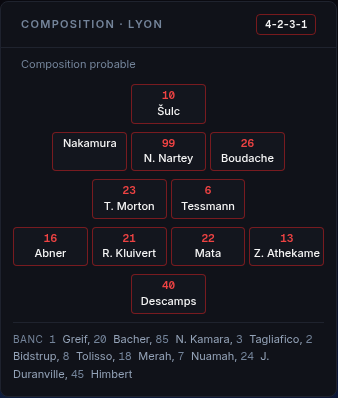
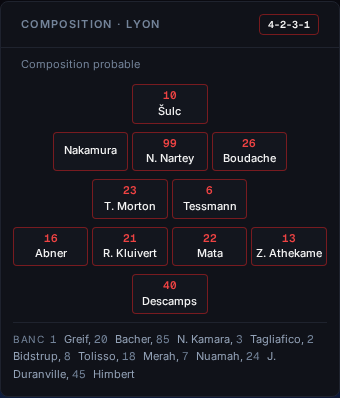
fix(L129): pastille d'un joueur sans numéro, nom centré verticalement (revue UX)

diff --git a/frontend/src/routes/match.probable-L129.test.tsx b/frontend/src/routes/match.probable-L129.test.tsx
@@ -102,4 +102,20 @@ describe('Page match — match à venir (L129)', () => {
     expect(within(ol).queryByText('0')).toBeNull();
     expect(within(ol).getByTestId('banc-composition').textContent).not.toMatch(/\b0\b/);
   });
+
+  it('joueur sans numéro dans une rangée de numérotés : pastille centrée verticalement (revue UX)', () => {
+    // Les pastilles d'une rangée s'étirent à la même hauteur : sans centrage, le nom du joueur
+    // sans numéro reste collé en haut (mesuré : 5 px du haut contre 21 px pour un numéroté).
+    const bare = (x: LiveMatchLineupPlayer) => (x.name === 'Cherki' ? { ...x, jerseyNumber: 0 } : x);
+    hook = { isLoading: false, isError: false, data: stats({
+      home: lineup('4-2-3-1', OL_421.map(bare), BENCH_OL),
+      away: lineup('4-1-4-1', OPP_4141, BENCH_OPP),
+    }) };
+    render(<MatchPage />);
+    const chipOf = (name: string) => within(blocks()[0]).getByText(name).parentElement as HTMLElement;
+    expect(chipOf('Cherki').className).toContain('justify-center');
+    // Les numérotés gardent la même pastille : numéro puis nom, centrés.
+    expect(chipOf('Fofana').className).toContain('justify-center');
+    expect(chipOf('Fofana').firstElementChild).toHaveTextContent('7');
+  });
 });

diff --git a/frontend/src/components/lineup-card.tsx b/frontend/src/components/lineup-card.tsx
@@ -105,7 +105,7 @@ function PlayerChip({
       title={`${player.name}${player.positionShort ? ` · ${positionShortFr(player.positionShort)}` : ''}`}
       style={{ flex: `0 0 ${width}`, borderColor }}
       className={cn(
-        'flex flex-col items-center text-center gap-0.5 min-w-0 rounded-sm border bg-surface-2/60 px-0.5 py-1 leading-tight text-fg',
+        'flex flex-col items-center justify-center text-center gap-0.5 min-w-0 rounded-sm border bg-surface-2/60 px-0.5 py-1 leading-tight text-fg',
       )}
     >
       {hasJersey(player.jerseyNumber) && (
